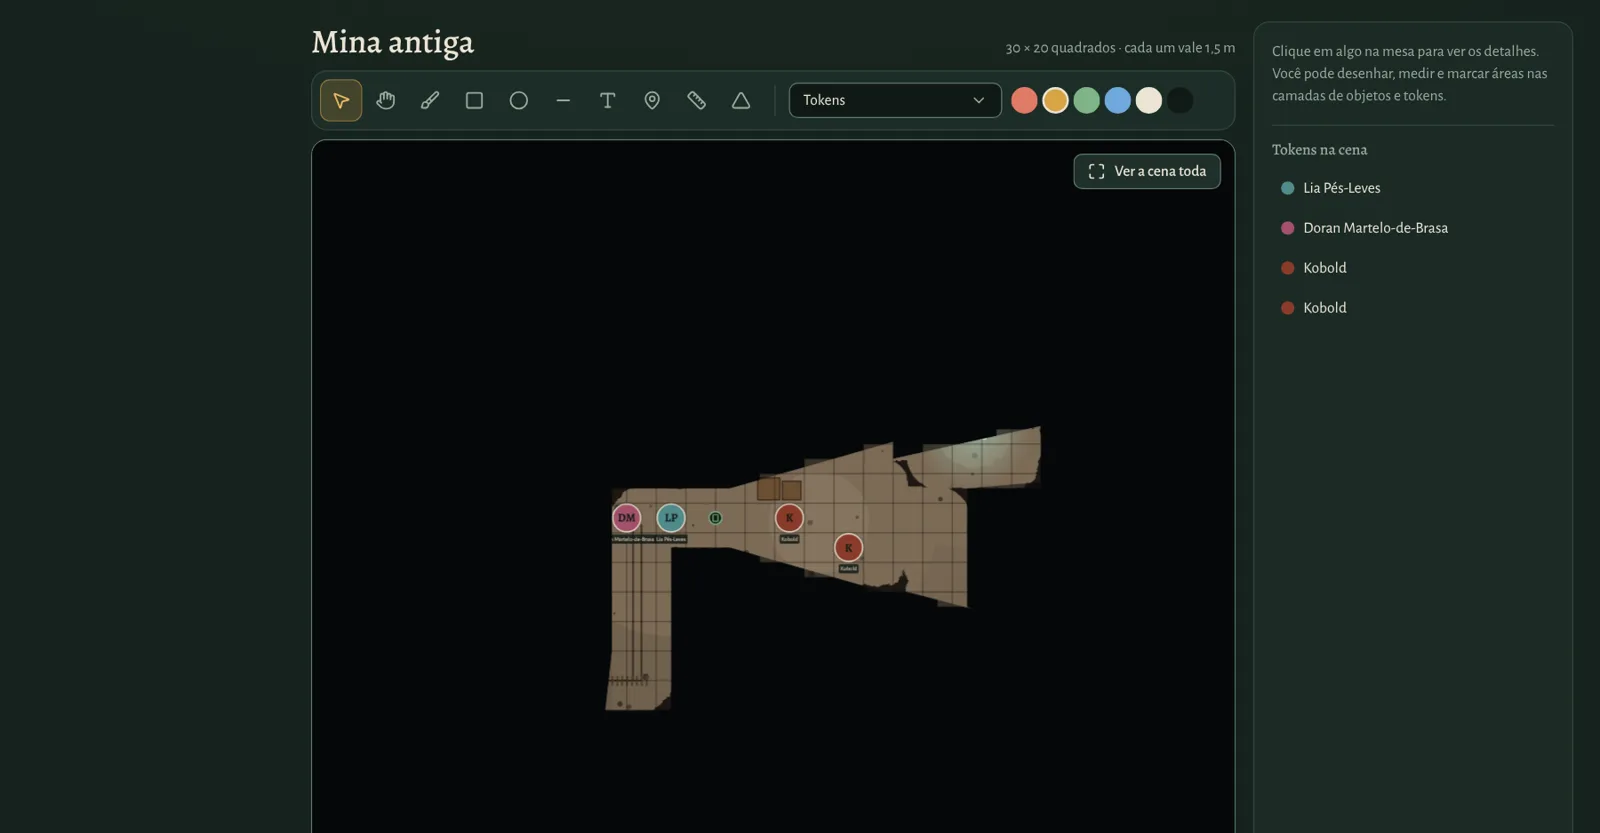
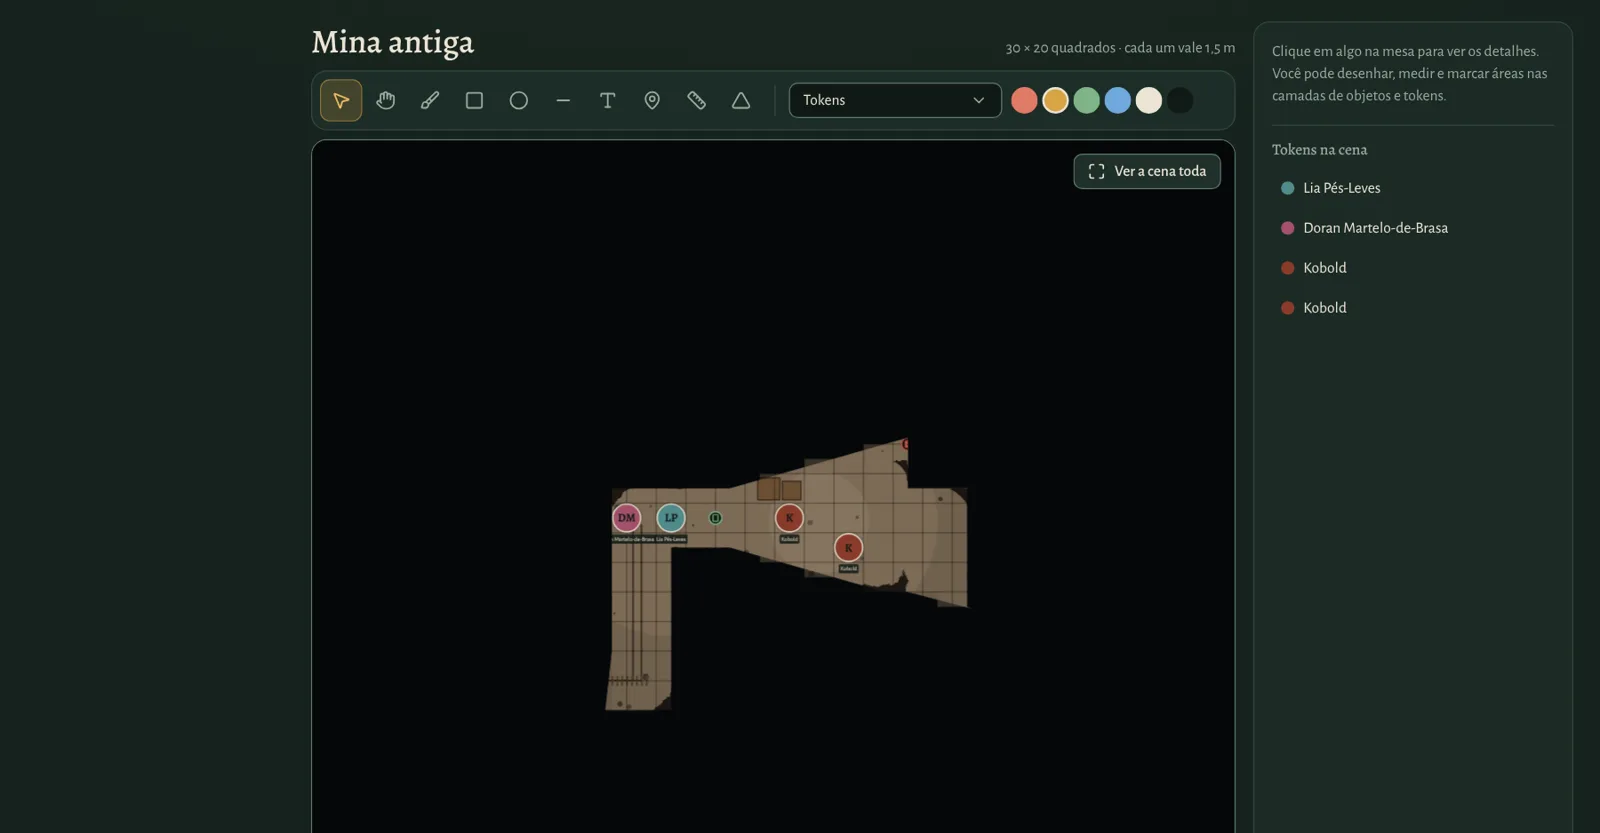
fix(api): sala do cristal fechada pela porta trancada na demonstracao

Changed region(s): [[0.5625, 0.4994, 0.6562, 0.593]]

diff --git a/api/src/database/seed.ts b/api/src/database/seed.ts
@@ -189,7 +189,8 @@ async function seed(): Promise<void> {
     .values([
       ...mineWalls().map((points) => wall(points)),
       wall([560, 385, 560, 525], { type: 'door', state: 'closed' }),
-      wall([980, 175, 980, 315], { type: 'door', state: 'locked' })
+      wall([1015, 175, 1015, 385], { type: 'door', state: 'locked' }),
+      wall([1015, 385, 1155, 385])
     ])
   const at = (col: number, row: number, span = 1) => ({ x: col * cell, y: row * cell, width: cell * span, height: cell * span })
   await db.insert(schema.sceneItems).values([
